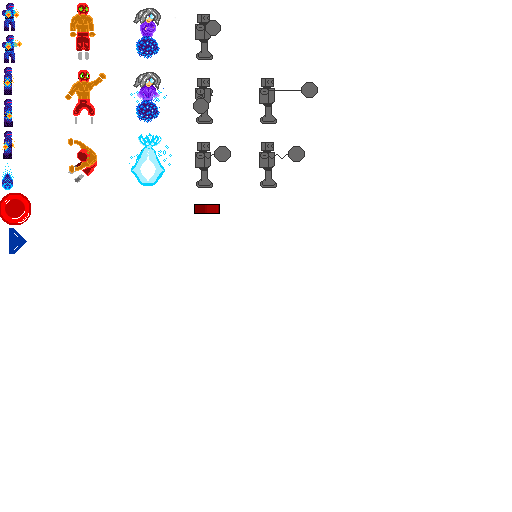
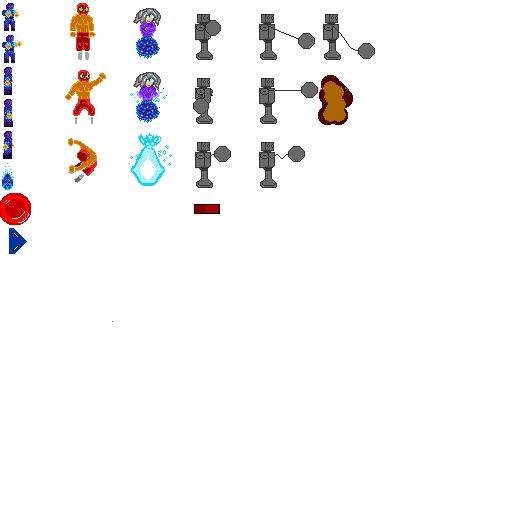
Se modifico el codigo para que los enemigos tengan un estado en el que se destruyen con una animacion. Tambien se modifico el atlas de las imagenes.

Changed region(s): [[0.5, 0.0312, 0.75, 0.25]]

diff --git a/app/src/main/java/com/jgame/elements/RobotEnemy.java b/app/src/main/java/com/jgame/elements/RobotEnemy.java
@@ -13,13 +13,17 @@ import com.jgame.util.Vector2;
 public class RobotEnemy extends GameCharacter {
 
     enum EnemyState {
-        WAITING, EXPLODING, ATTACKING, DEAD
+        WAITING, EXPLODING, ATTACKING, DYING, DEAD
     }
 
     public final static TextureData IDLE_TEXTURE = new TextureData(0.375f,0.125f,0.5f,0.25f);
     public final static TextureData[] STARTUP_TEXTURES = {new TextureData(0.375f,0,0.5f,0.125f),
             new TextureData(0.375f,0.25f,0.5f,0.375f),
             new TextureData(0.5f,0.25f,0.625f,0.375f)};
+    private final static AnimationData DESTROY_ANIMATION = new AnimationData(2, false,
+            new TextureData[] {STARTUP_TEXTURES[2], STARTUP_TEXTURES[1], STARTUP_TEXTURES[0], TextureDrawer.genTextureData(6,2,8)});
+    public final static TextureData[] RECOVERY_TEXTURES = {TextureDrawer.genTextureData(5,1,8),
+    TextureDrawer.genTextureData(6,1,8)};
     public final static TextureData ATTACK_TEXTURE = new TextureData(0.5f,0.125f,0.625f,0.25f);
     public final static float DISTANCE_FROM_MAIN_CHARACTER = 150;
     public final static float ATTACK_DISTANCE = 100;
@@ -54,7 +58,7 @@ public class RobotEnemy extends GameCharacter {
         regularAttack = new AttackData(startupBoxes, attackBoxes, attackBoxes);
         regularAttack.setStartupAnimation(new AnimationData(10, false, STARTUP_TEXTURES));
         regularAttack.setActiveAnimation(new AnimationData(40, false, ATTACK_TEXTURE));
-        regularAttack.setRecoveryAnimation(new AnimationData(10, false, STARTUP_TEXTURES));
+        regularAttack.setRecoveryAnimation(new AnimationData(10, false, RECOVERY_TEXTURES));
     }
 
     @Override
@@ -63,7 +67,7 @@ public class RobotEnemy extends GameCharacter {
         regularAttack.reset();
         currentState = EnemyState.WAITING;
         setPosition(mainCharacter, DISTANCE_FROM_MAIN_CHARACTER);
-
+        DESTROY_ANIMATION.reset();
     }
 
     @Override
@@ -85,13 +89,15 @@ public class RobotEnemy extends GameCharacter {
     public TextureData getCurrentTexture() {
         if(currentState == EnemyState.ATTACKING)
             return activeAttack.getCurrentAnimation().getCurrentSprite();
+        else if(currentState == EnemyState.DYING)
+            return DESTROY_ANIMATION.getCurrentSprite();
         else
             return IDLE_TEXTURE;
     }
 
     @Override
     public void hit() {
-        currentState = EnemyState.DEAD;
+        currentState = EnemyState.DYING;
     }
 
     @Override
@@ -125,6 +131,12 @@ public class RobotEnemy extends GameCharacter {
 
         if(currentState != EnemyState.WAITING){
             super.update(foe, interval, worldData);
+        }
+
+        if(currentState == EnemyState.DYING){
+            DESTROY_ANIMATION.updateFrame();
+            if(DESTROY_ANIMATION.completed())
+                currentState = EnemyState.DEAD;
         }
 
     }

diff --git a/app/src/main/java/com/jgame/game/GameActivity.java b/app/src/main/java/com/jgame/game/GameActivity.java
@@ -130,7 +130,9 @@ public class GameActivity extends Activity {
                         mainCharacter.receiveInput(lastInput);
 
                     mainCharacter.update(currentEnemy, updateInterval, worldData);
-                    currentEnemy.update(mainCharacter, updateInterval, worldData);
+                    synchronized (enemyLock) {
+                        currentEnemy.update(mainCharacter, updateInterval, worldData);
+                    }
 
 
                     if (!currentEnemy.alive()) {
